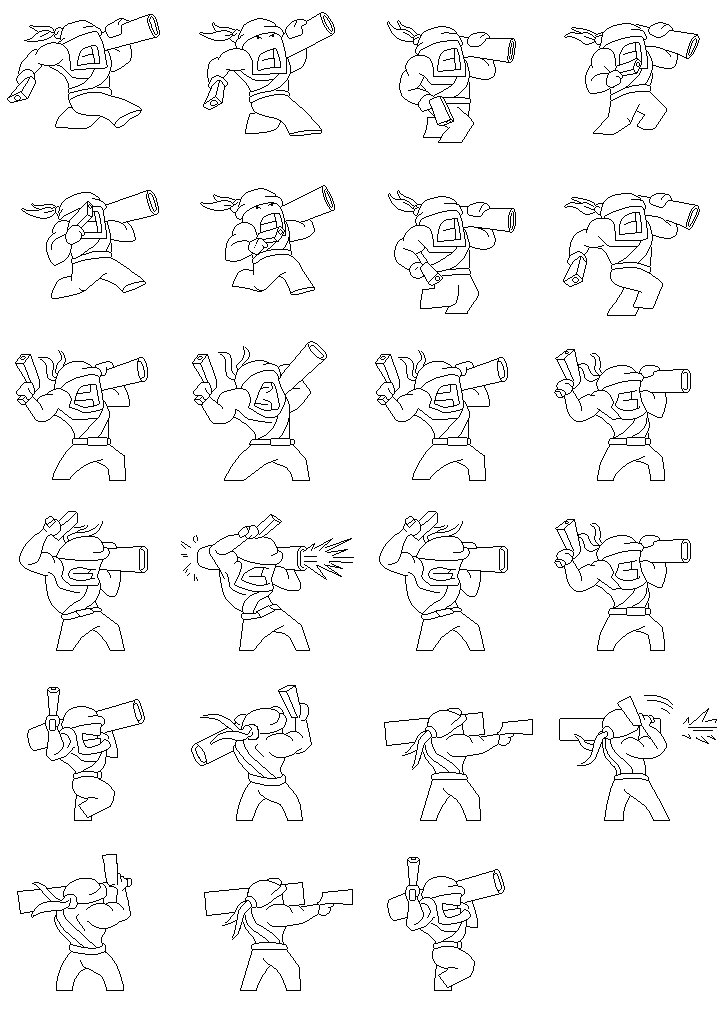
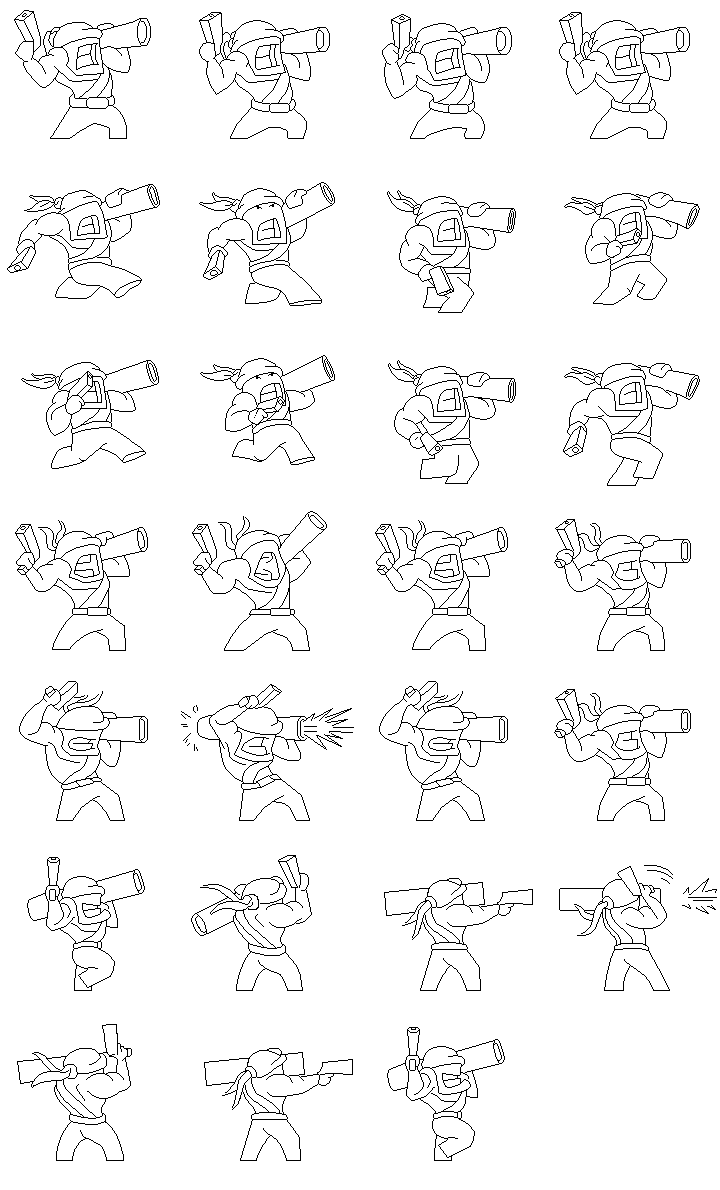
* Fight: updated flak trooper and biker animations. Updated VS animation as well.

diff --git a/MobileClient/www/Assets/Render/SpriteAnimations/FightUnits/FlakTrooperFight.js b/MobileClient/www/Assets/Render/SpriteAnimations/FightUnits/FlakTrooperFight.js
@@ -20,15 +20,15 @@ SpriteAnimations.FightUnits.FlakTrooper = {
 		
 		{
 			name: 'Idle0',
-			speed: 20,
+			speed: 10,
 			startIndex: 0,
-			frames: 1,
+			frames: 4,
 		},
 		
 		{
 			name: 'Run',
 			speed: 10,
-			startIndex: 0,
+			startIndex: 4,
 			frames: 8,
 			wrapMode: Animator.WrapMode.Loop,
 		},
@@ -36,7 +36,7 @@ SpriteAnimations.FightUnits.FlakTrooper = {
 		{
 			name: 'Attack',
 			speed: 9,
-			startIndex: 8,
+			startIndex: 12,
 			frames: 15,
 
 			events: [
@@ -77,8 +77,8 @@ SpriteAnimations.FightUnits.Biker = {
 
 	frameWidth: 180,
 	frameHeight: 170,
-	framesPerRow: 5,
-	speed: 14,
+	framesPerRow: 4,
+	speed: 7,
 	anchorX: Animator.AnchorX.Center,
 	anchorY: 140,
 	
@@ -93,19 +93,18 @@ SpriteAnimations.FightUnits.Biker = {
 		{
 			name: 'Idle0',
 			startIndex: 0,
-			frames: 1,
+			frames: 4,
 		},
 
 		{
 			name: 'Attack',
-			startIndex: 0,
-			frames: 1,
-			speed: 9,
+			startIndex: 4,
+			frames: 4,
 
 			events: [
 				
 				{
-					frame: 0,
+					frame: 2,
 					event: FightRenderingEvents.Animations.FIRE,
 					params: {
 						weaponType: FightUnitWeaponType.Shotgun,

diff --git a/MobileClient/www/Assets/Render/SpriteAnimations/Fight/VS.js b/MobileClient/www/Assets/Render/SpriteAnimations/Fight/VS.js
@@ -15,7 +15,7 @@ SpriteAnimations.Fight.VS = {
 			name: 'Idle0',
 			startIndex: 0,
 			speed: 8,
-			frames: 14,
+			frames: 16,
 			wrapMode: Animator.WrapMode.OnceEnd,
 		},
 
